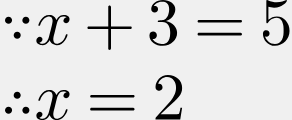
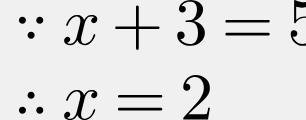
Final

diff --git a/CSharpMath.SkiaSharp/Extensions.cs b/CSharpMath.SkiaSharp/Extensions.cs
@@ -14,7 +14,7 @@ namespace CSharpMath.SkiaSharp {
        SKEncodedImageFormat format = SKEncodedImageFormat.Png,
        int quality = 100) where TContent : class {
       if (!(painter.Measure(textPainterCanvasWidth) is { } size)) return null;
-      using var surface = SKSurface.Create(new SKImageInfo((int)(size.X + size.Width), (int)size.Height));
+      using var surface = SKSurface.Create(new SKImageInfo((int)size.Width, (int)size.Height));
       painter.Draw(surface.Canvas, TextAlignment.TopLeft);
       using var snapshot = surface.Snapshot();
       return snapshot.Encode(format, quality).AsStream();

diff --git a/CSharpMath.Avalonia/Extensions.cs b/CSharpMath.Avalonia/Extensions.cs
@@ -50,7 +50,7 @@ namespace CSharpMath.Avalonia {
        float textPainterCanvasWidth = TextPainter.DefaultCanvasWidth) where TContent : class {
       if (!(painter.Measure(textPainterCanvasWidth) is { } size)) return;
       using var bitmap =
-        new RenderTargetBitmap(new PixelSize((int)(size.X + size.Width), (int)size.Height));
+        new RenderTargetBitmap(new PixelSize((int)size.Width, (int)size.Height));
       bitmap.Render(new DrawVisual<TContent>(painter, size));
       bitmap.Save(target);
     }
